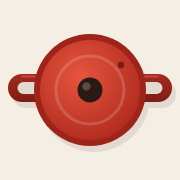
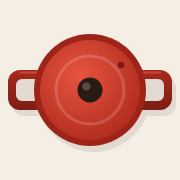
Ícone: alças mais longas ao longo da panela
Claude-Session: https://claude.ai/code/session_01Aq91o1pQEkGChmfbNb7JC9

Changed region(s): [[0.7778, 0.3889, 0.9722, 0.6111], [0.0278, 0.3889, 0.2222, 0.6111]]

diff --git a/sw.js b/sw.js
@@ -1,6 +1,6 @@
 // Receitas: funciona offline. Página sempre busca a versão nova primeiro;
 // sem internet, usa a cópia salva.
-const CACHE = 'receitas-v4';
+const CACHE = 'receitas-v5';
 const FILES = ['./', './index.html', './manifest.webmanifest', './icon-180.png', './icon-512.png'];
 
 self.addEventListener('install', e => {
